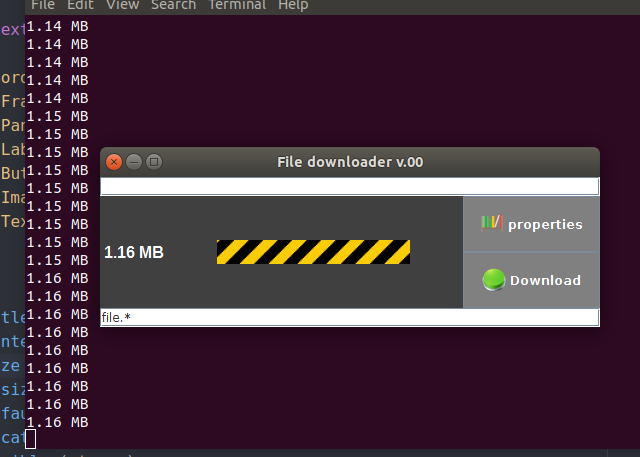
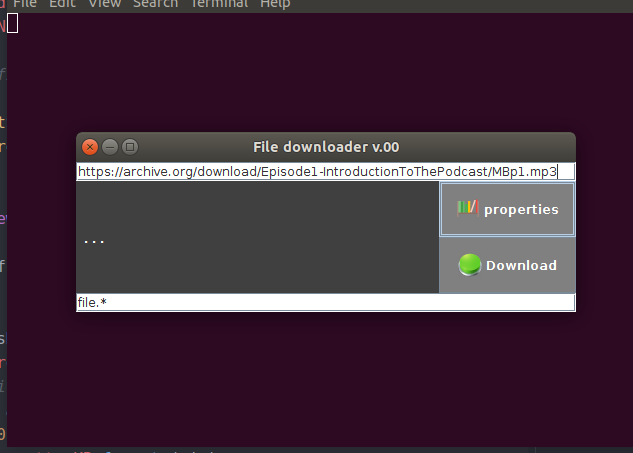
Fixed some bugs in the code. Added context menu

Changed region(s): [[0.0, 0.0, 1.0, 1.0], [0.3302, 0.5254, 0.6603, 0.5872]]

diff --git a/GUI.java b/GUI.java
@@ -1,19 +1,34 @@
-// Created oct 05 fri 2018
+// Created oct 06 sat 2018
+
+// https://stackoverflow.com/questions/1912758/how-to-add-a-popup-menu-to-a-jtextfield
+// http://www.java2s.com/Code/Java/Swing-JFC/Apopupmenuissometimescalledacontextmenu.htm
+// https://stackoverflow.com/questions/30682416/java-right-click-copy-cut-paste-on-textfield
 
 import java.awt.BorderLayout;
 import java.awt.Color;
 import java.awt.GridLayout;
 import java.awt.event.ActionEvent;
+import java.awt.event.ActionListener;
 import java.awt.Font;
+import java.awt.event.MouseAdapter;
+import java.awt.event.MouseEvent;
+import javax.swing.Action;
 import javax.swing.ImageIcon;
 import javax.swing.JButton;
 import javax.swing.JFrame;
 import javax.swing.JLabel;
+import javax.swing.JMenuItem;
 import javax.swing.JPanel;
+import javax.swing.JPopupMenu;
 import javax.swing.JTextField;
+import javax.swing.KeyStroke;
 import javax.swing.SwingConstants;
+import javax.swing.text.JTextComponent;
+import javax.swing.text.DefaultEditorKit;
+import javax.swing.text.DefaultEditorKit.CopyAction;
+import javax.swing.text.TextAction;
 
-public class GUI extends Thread implements Runnable {
+public class GUI extends Thread {
 
   public static BorderLayout border;
   public static JFrame frame = new JFrame ();
@@ -21,7 +36,12 @@ public class GUI extends Thread implements Runnable {
   public static JLabel label, waitBar;
   public static JButton buttonGetProperties, buttonDownload;
   private static ImageIcon alfa, picSpinner, picProperties, picDownload;
-  public static JTextField fieldAddress, fieldOut;
+  public static JTextField fieldAddressURL, fieldFileName;
+  public static JPopupMenu contextMenu;
+  public static JMenuItem pastMenuItem;
+
+  public static String addressURL;
+  public static String fileName;
 
   public GUI () {
       initUI ();
@@ -55,35 +75,83 @@ public class GUI extends Thread implements Runnable {
     buttonDownload.setBackground ( Color.GRAY );
     buttonDownload.setForeground ( Color.WHITE );
 
-    fieldAddress = new JTextField ();
-    fieldOut = new JTextField ( "file.*" );
+    fieldAddressURL = new JTextField ();
+    fieldFileName = new JTextField ( "file.*" );
+    contextMenu = new JPopupMenu ();
+
+    Action copy = new DefaultEditorKit.CopyAction ();
+    copy.putValue ( Action.NAME, "Copy" );
+    copy.putValue ( Action.ACCELERATOR_KEY, KeyStroke.getKeyStroke ( "control C" ) );
+    contextMenu.add ( copy );
+
+    Action paste = new DefaultEditorKit.PasteAction ();
+    paste.putValue ( Action.NAME, "Paste" );
+    paste.putValue ( Action.ACCELERATOR_KEY, KeyStroke.getKeyStroke ( "control V" ) );
+    contextMenu.add ( paste );
+
+    Action cut = new DefaultEditorKit.CutAction ();
+    cut.putValue ( Action.NAME, "Cut" );
+    cut.putValue ( Action.ACCELERATOR_KEY, KeyStroke.getKeyStroke ( "control X" ) );
+    contextMenu.add ( cut );
+
+    Action selectAll = new SelectAll ();
+    contextMenu.add ( selectAll );
+
+    frame.addMouseListener ( new MouseAdapter () {
+      public void mouseReleased ( MouseEvent e ) {
+        if ( e.getButton () == e.BUTTON3 ) {
+          contextMenu.show ( e.getComponent (), e.getX (), e.getY () );
+        }
+      }
+    });
+    fieldAddressURL.setComponentPopupMenu ( contextMenu );
+    fieldFileName.setComponentPopupMenu ( contextMenu );
 
     paneButton.setLayout ( new GridLayout ( 2, 1, 0, 0 ) );
     paneButton.add ( buttonGetProperties );
     paneButton.add ( buttonDownload );
 
     windowContent.setBackground ( Color.DARK_GRAY );
-    windowContent.add ( fieldAddress, BorderLayout.NORTH );
-    windowContent.add ( fieldOut, BorderLayout.SOUTH );
+    windowContent.add ( fieldAddressURL, BorderLayout.NORTH );
+    windowContent.add ( fieldFileName, BorderLayout.SOUTH );
     windowContent.add ( label, BorderLayout.WEST );
     windowContent.add ( paneButton, BorderLayout.EAST );
     windowContent.add ( waitBar, BorderLayout.CENTER );
 
+
     buttonGetProperties.addActionListener ( ( ActionEvent event ) -> {
       System.out.println ( "button properties" );
-      Downloader down = new Downloader ( fieldAddress.getText (), fieldOut.getText (), false );
+      addressURL = fieldAddressURL.getText ();
+      fileName = fieldFileName.getText ();
+      Downloader down = new Downloader ( false );
       Thread t1 = new Thread ( down );
       t1.start ();
     }); // end of adapter
 
-    //////////////////////////////////////////////////////////////////////////////////////////////////////
+    //////////////////////////////////////////////////////////////////////////
     buttonDownload.addActionListener ( ( ActionEvent event ) -> {
       System.out.println ( "button download" );
-      Downloader down = new Downloader ( fieldAddress.getText (), fieldOut.getText (), true );
+      Downloader down = new Downloader ( true );
       Thread t1 = new Thread ( down );
       t1.start ();
     }); // end of adapter
   }
+
+  static class SelectAll extends TextAction
+    {
+        public SelectAll()
+        {
+            super("Select All");
+            putValue(Action.ACCELERATOR_KEY, KeyStroke.getKeyStroke("control S"));
+        }
+
+        public void actionPerformed(ActionEvent e)
+        {
+            JTextComponent component = getFocusedComponent();
+            component.selectAll();
+            component.requestFocusInWindow();
+        }
+    }
 
   public void setSpinner () {
     waitBar.setIcon ( picSpinner );
@@ -99,4 +167,5 @@ public class GUI extends Thread implements Runnable {
     } catch ( InterruptedException e ) { e.printStackTrace (); }
     System.exit ( 0 );
   }
+
 }

diff --git a/Downloader.java b/Downloader.java
@@ -1,9 +1,11 @@
-// Created oct 05 fri 2018
+// Created oct 06 sat 2018
 // https://docs.oracle.com/javase/tutorial/java/data/numberformat.html
 
-//FILE_URL = "https://archive.org/download/Episode1-IntroductionToThePodcast/MBp1.mp3";
-//FILE_URL = "https://archive.org/download/PlanetoftheApes/Retroist-154-The-Planet-of-the-Apes.mp3";
+//ADDRESS_URL = "https://archive.org/download/Episode1-IntroductionToThePodcast/MBp1.mp3";
+//ADDRESS_URL = "https://archive.org/download/PlanetoftheApes/Retroist-154-The-Planet-of-the-Apes.mp3";
 // https://archive.org/details/Episode1-IntroductionToThePodcast
+
+// https://images-na.ssl-images-amazon.com/images/I/610CpdfoH5L.png
 
 import java.io.FileOutputStream;
 import java.io.IOException;
@@ -13,31 +15,34 @@ import java.io.BufferedInputStream;
 import java.text.DecimalFormat;
 
 public class Downloader extends Thread {
-  public static String FILE_URL;
+  
+  public static String ADDRESS_URL;
   public static String FILE_NAME;
   public static boolean key;
+  public static GUI gui = new GUI ();
 
-  public Downloader ( String FILE_URL, String FILE_NAME, boolean key ) {
-    this.FILE_URL = FILE_URL;
-    this.FILE_NAME = FILE_NAME;
+  public Downloader ( boolean key ) {
     this.key = key;
   }
+
   public void run () {
     double amount = 0;
     String infoAmount = null;
     String output = null;
-    GUI gui = new GUI ();
     gui.setSpinner ();
     DecimalFormat formatterMB = new DecimalFormat ( "    .## MB" );
     DecimalFormat formatterKB = new DecimalFormat ( " ###.## KB" );
 
+    ADDRESS_URL = gui.addressURL;
+    FILE_NAME = gui.fileName;
+
     if ( key ) { // get file ( push button "Download" )
       try (
-            BufferedInputStream in = new BufferedInputStream ( new URL ( FILE_URL ).openStream () );
+            BufferedInputStream in = new BufferedInputStream ( new URL ( ADDRESS_URL ).openStream () );
             FileOutputStream fileOutputStream = new FileOutputStream ( FILE_NAME );
       ) {
           // get info of file
-          amount = ( ( new URL ( FILE_URL ).openConnection ().getContentLength () ) / 1000.0 );
+          amount = ( ( new URL ( ADDRESS_URL ).openConnection ().getContentLength () ) / 1000.0 );
           // get file
           byte [] dataBuffer = new byte [ 1024 ];
           int bytesRead;
@@ -47,14 +52,14 @@ public class Downloader extends Thread {
             i++; // received bytes
             // formating amount to KB
             if ( i < 1000 ) {
-              output = formatterKB.format ( i * 1.024 );
+              output = formatterKB.format ( i );
               gui.label.setText ( output );
-              System.out.printf ( "%.2fKB\n", ( i * 1.024 ) );
+              System.out.printf ( "%.2f KB\n", i );
             }
               else { // formating amount to MB
-                output = formatterMB.format ( ( i * 1.024 ) / 1000.0 );
+                output = formatterMB.format ( i / 1000.0 );
                 gui.label.setText ( output );
-                System.out.printf ( "%.2f MB\n", ( ( i * 1.024 ) / 1000.0 ) );
+                System.out.printf ( "%.2f MB\n", ( i / 1000.0 ) );
               }
             //
           }
@@ -64,18 +69,16 @@ public class Downloader extends Thread {
     }
       else { // get info of file ( push button "properties" )
         try (
-              BufferedInputStream in = new BufferedInputStream ( new URL ( FILE_URL ).openStream () );
+              BufferedInputStream in = new BufferedInputStream ( new URL ( ADDRESS_URL ).openStream () );
         ) {
-          amount = ( ( new URL ( FILE_URL ).openConnection ().getContentLength () ) / 1000.0 );
-          System.out.printf ( "%.2f " + "MB\n", amount / 1000.0 );
+          amount = ( ( new URL ( ADDRESS_URL ).openConnection ().getContentLength () ) / 1000.0 );
+          System.out.printf ( "%.2f " + " MB\n", amount / 1000.0 );
 
           if ( amount < 1000 ) {
-            System.out.println ( amount );
             output = formatterKB.format ( amount );
             gui.label.setText ( output );
           }
             else {
-              System.out.println ( amount / 1000.0 );
               output = formatterMB.format ( amount / 1000.0 );
               gui.label.setText ( output );
             }
@@ -85,12 +88,12 @@ public class Downloader extends Thread {
       }
         gui.unSetSpinner ();
         if ( amount < 1000 ) {
-          System.out.println ( amount );
+          System.out.println ( amount + " KB" );
           output = formatterKB.format ( amount );
           gui.label.setText ( output );
         }
           else {
-            System.out.println ( amount / 1000.0 );
+            System.out.println ( ( amount / 1000.0 ) + " MB" );
             output = formatterMB.format ( amount / 1000.0 );
             gui.label.setText ( output );
           }

diff --git a/RunProgram.java b/RunProgram.java
@@ -1,8 +1,8 @@
-// Created oct 03 wed 2018
+// Created oct 06 sat 2018
 // reset && javac -d bin RunProgram.java && java -cp bin RunProgram
 
 public class RunProgram {
   public static void main ( String [] args ) {
-    GUI gui = new GUI ();
+    new GUI ();
   }
 }

diff --git a/README.md b/README.md
@@ -10,3 +10,5 @@ Added download spinner and improved view of the file download size.
 2018 oct 5
 Improved viewing of file download size in the program window and some changes
 in file GUI.java.
+2018 oct 06
+Fixed some bugs in the code. Added context menu.
